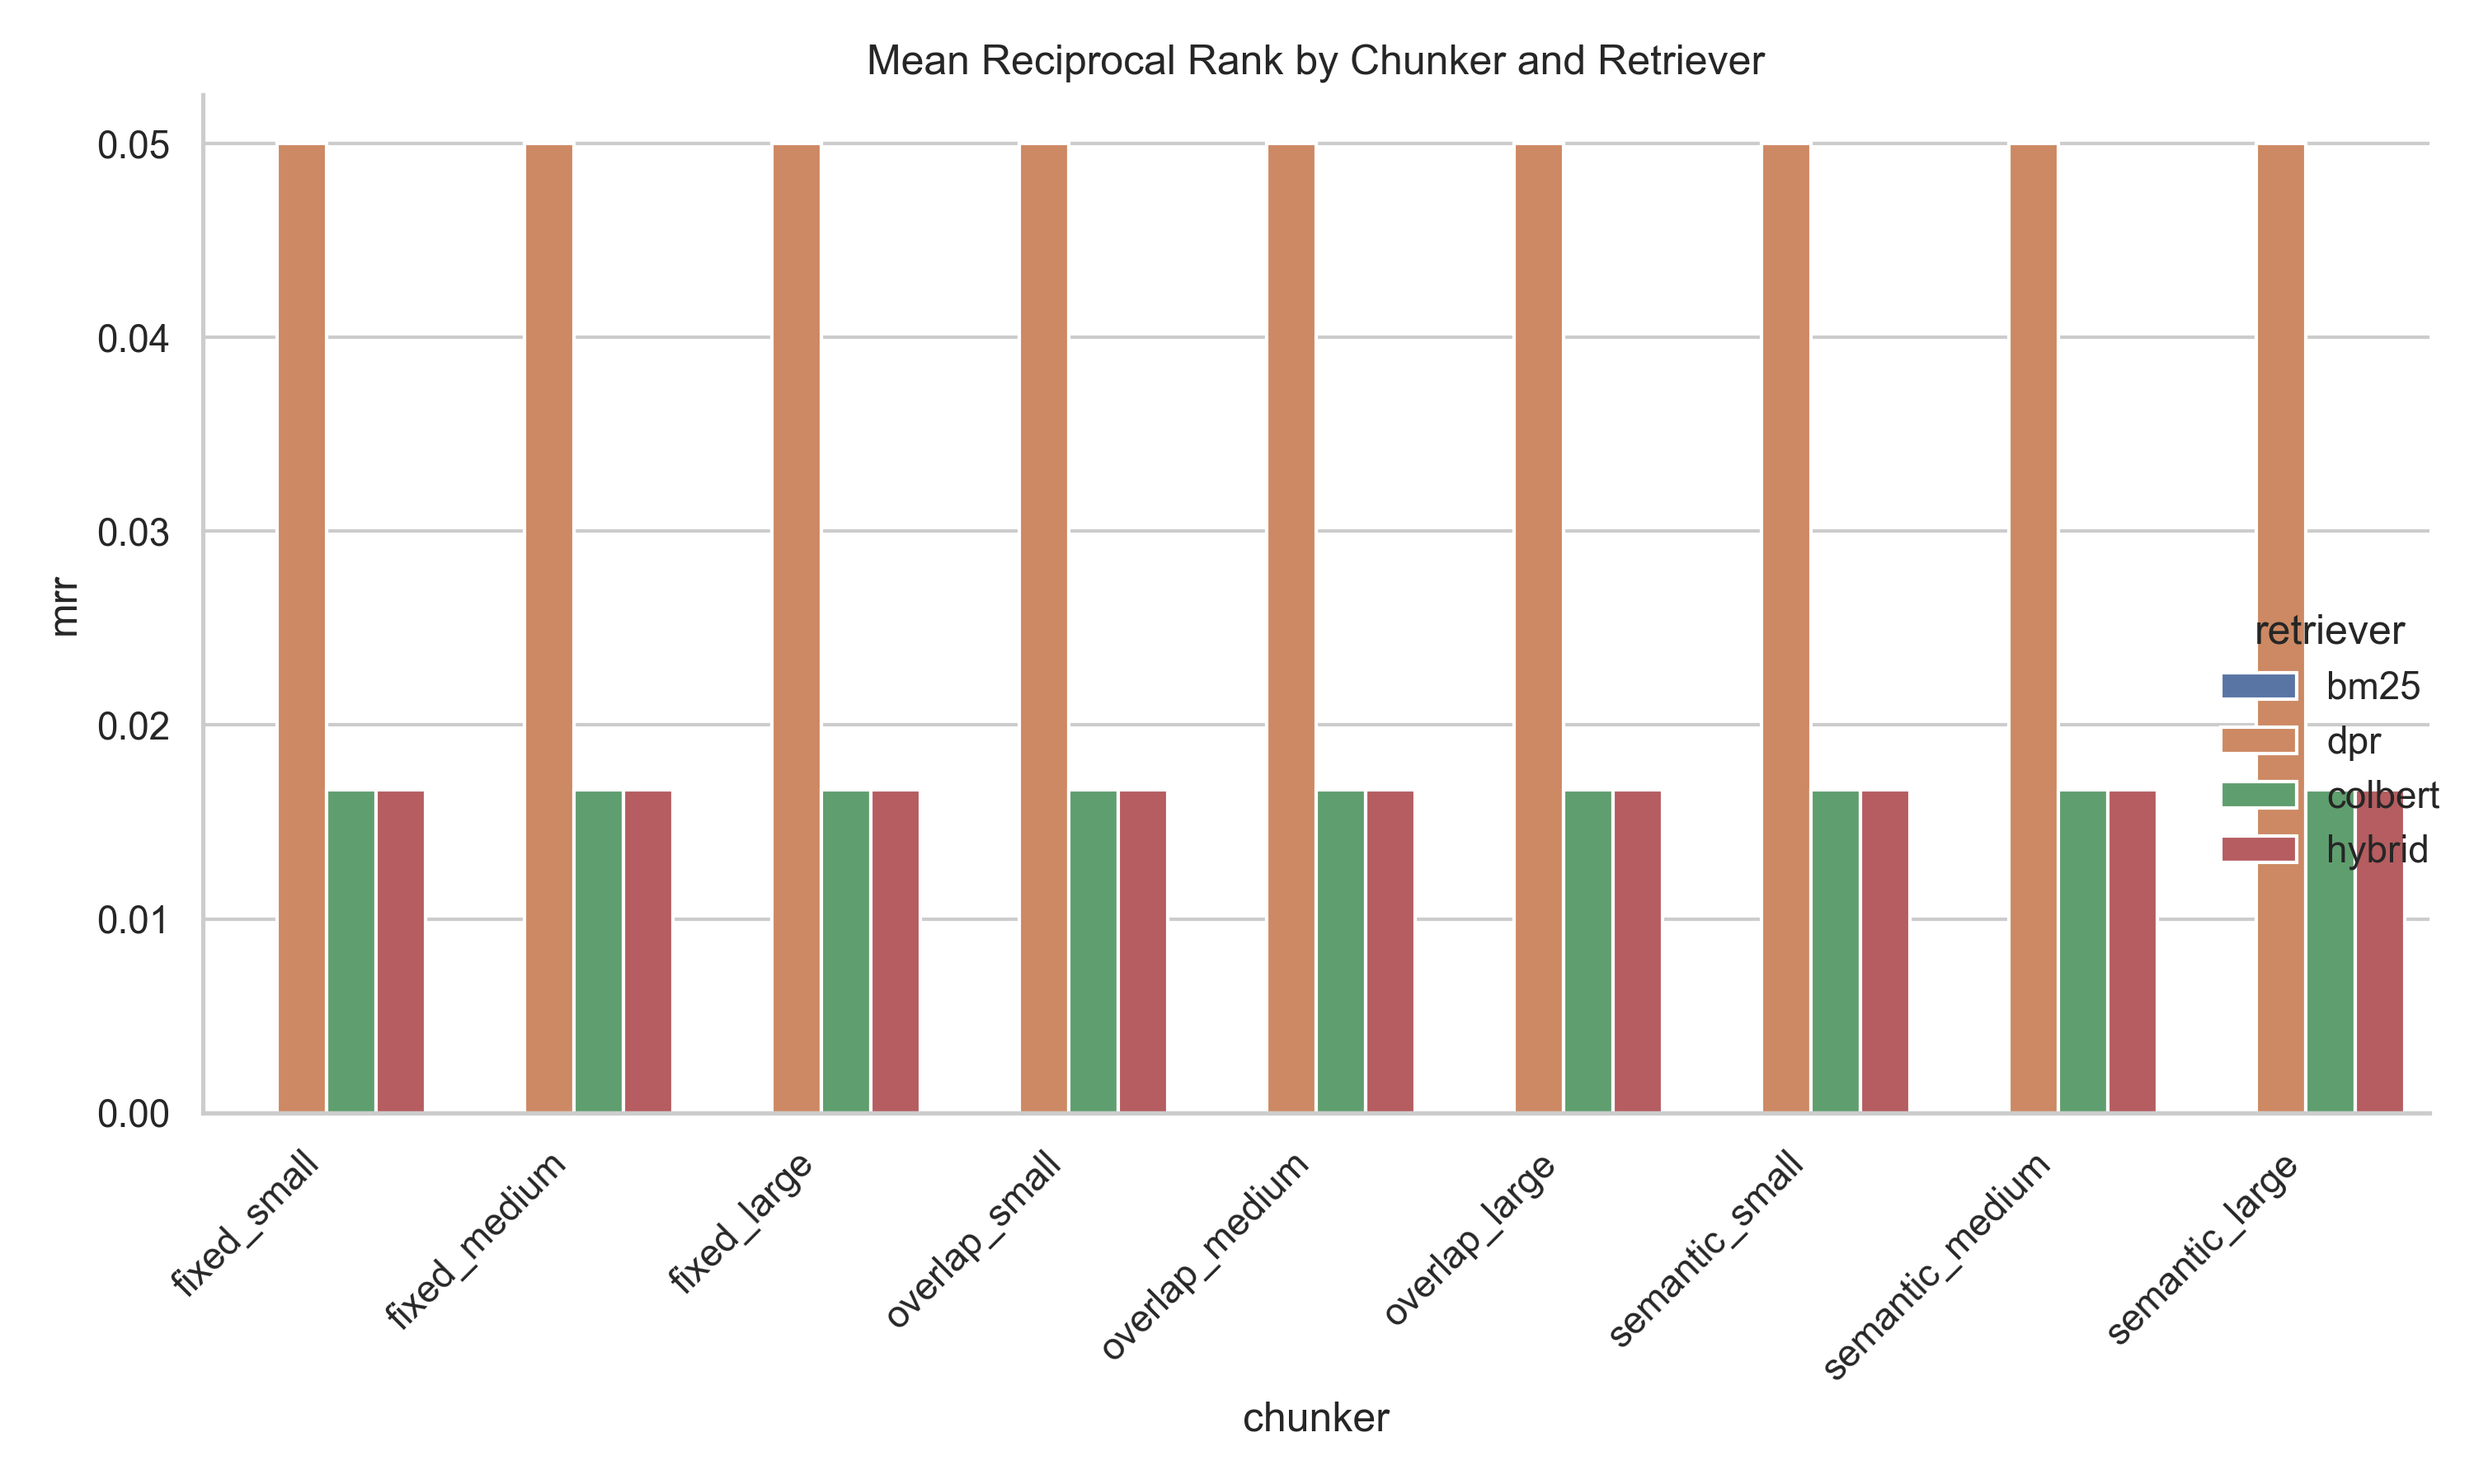
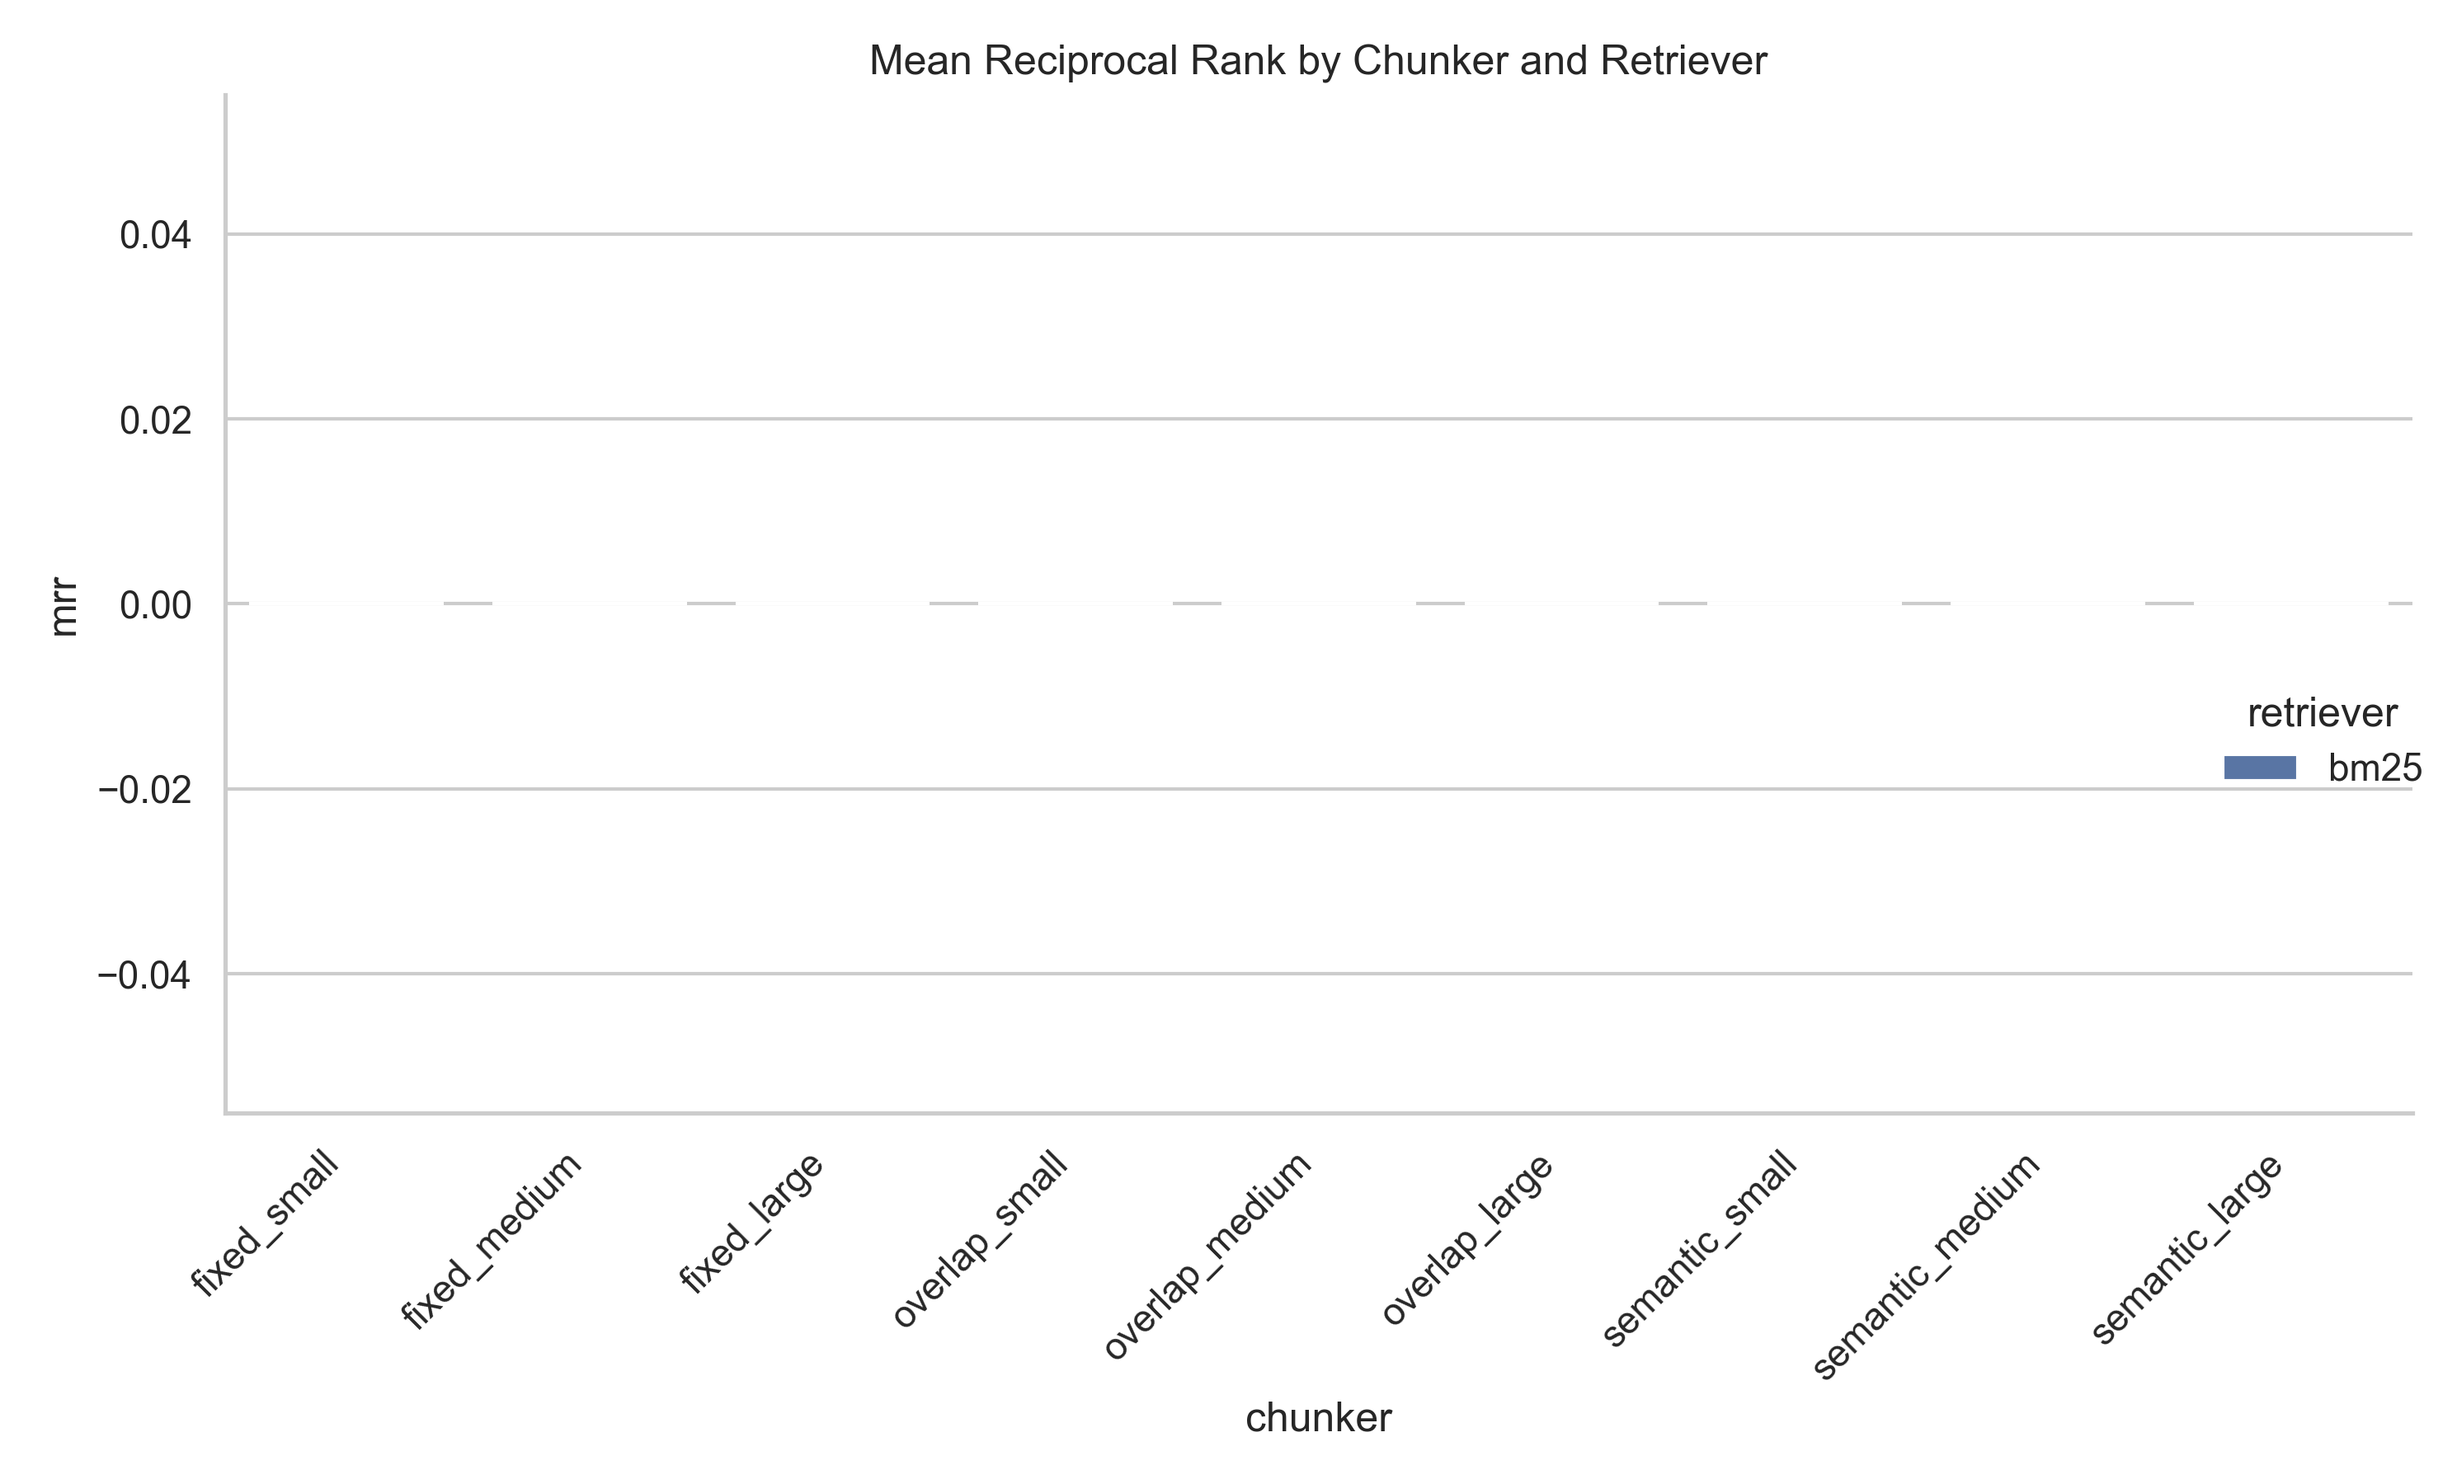
updates

diff --git a/test2.py b/test2.py
@@ -156,22 +156,39 @@ def load_triviaqa(
     """
     print(f"Loading TriviaQA from {dataset_path}")
     
+    # Verify dataset exists
+    if not os.path.exists(dataset_path):
+        raise FileNotFoundError(f"TriviaQA dataset not found at {dataset_path}. Please check the path.")
+    
     root = Path(dataset_path).parent
+    print(f"Looking for evidence files in: {root}")
+    
     with open(dataset_path, "r", encoding="utf-8") as f:
-        data = json.load(f)["Data"]
+        data_json = json.load(f)
+        if "Data" not in data_json:
+            raise ValueError(f"Invalid TriviaQA format: 'Data' key not found in {dataset_path}")
+        data = data_json["Data"]
+        print(f"Loaded {len(data)} QA pairs from dataset")
 
     docs = {}
     qa_pairs = []
+    missing_files = 0
+    empty_docs = 0
     
     def read_evidence(file_path: Path) -> str:
+        nonlocal missing_files
         if not file_path.exists():
+            missing_files += 1
+            if missing_files <= 5:  # Limit the number of warnings
+                print(f"Warning: Evidence file not found: {file_path}")
             return ""
         try:
             if file_path.suffix == ".gz":
                 with gzip.open(file_path, "rt", encoding="utf-8", errors="ignore") as g:
                     return g.read()
             return file_path.read_text(encoding="utf-8", errors="ignore")
-        except Exception:
+        except Exception as e:
+            print(f"Error reading file {file_path}: {str(e)}")
             return ""
 
     def add_doc(doc_info, prefix: str, j: int):
@@ -180,9 +197,26 @@ def load_triviaqa(
         doc_id = f"{prefix}_{j}"
         txt = ""
         if doc_info.get("Filename"):
-            txt = read_evidence(root / doc_info["Filename"])
+            # Try to find the file in the dataset directory
+            file_path = root / doc_info["Filename"]
+            txt = read_evidence(file_path)
+            
+            # If file wasn't found in the expected location, try with just the filename
+            if not txt and '/' in doc_info["Filename"]:
+                base_filename = os.path.basename(doc_info["Filename"])
+                alt_path = root / base_filename
+                txt = read_evidence(alt_path)
+                
         # Fallbacks
-        txt = txt or doc_info.get("Snippet", "") or doc_info.get("Title", "") or doc_info.get("Url", "")
+        if not txt:
+            txt = doc_info.get("Snippet", "") or doc_info.get("Title", "") or doc_info.get("Url", "")
+        
+        nonlocal empty_docs
+        if len(txt.strip().split()) < 10:  # Document has fewer than 10 words
+            empty_docs += 1
+            if empty_docs <= 5:  # Limit the number of warnings
+                print(f"Warning: Document {doc_id} is very short: '{txt}'")
+        
         docs[doc_id] = txt
 
     for i, item in enumerate(data):
@@ -191,8 +225,19 @@ def load_triviaqa(
 
         # QA
         question = item["Question"]
-        aliases = item["Answer"].get("NormalizedAliases") or []
-        gold = aliases[0] if aliases else item["Answer"]["NormalizedValue"]
+        answers = []
+        if "Answer" in item:
+            aliases = item["Answer"].get("NormalizedAliases", [])
+            if aliases:
+                answers = aliases
+            else:
+                answers = [item["Answer"].get("NormalizedValue", "")]
+        
+        if not answers:
+            print(f"Warning: No answer found for question: {question}")
+            continue
+            
+        gold = answers[0]
         
         # Add question complexity estimation (word count as proxy)
         complexity = len(question.split())
@@ -211,8 +256,38 @@ def load_triviaqa(
             add_doc(d, "web", j)
 
     # Drop empty documents
-    docs = {k: v for k, v in docs.items() if v.strip()}
+    orig_doc_count = len(docs)
+    docs = {k: v for k, v in docs.items() if len(v.strip()) > 20}  # Require at least 20 chars
+    print(f"Dropped {orig_doc_count - len(docs)} documents with less than 20 chars")
+    
+    if missing_files > 5:
+        print(f"Warning: {missing_files} evidence files were not found")
+    if empty_docs > 5:
+        print(f"Warning: {empty_docs} documents were very short (< 10 words)")
+    
+    # Sanity check on loaded documents
+    if not docs:
+        raise ValueError("No valid documents were loaded. Please check the dataset path and format.")
+    
+    avg_doc_len = sum(len(doc.split()) for doc in docs.values()) / len(docs)
     print(f"Loaded {len(docs)} non-empty documents and {len(qa_pairs)} QA pairs")
+    print(f"Average document length: {avg_doc_len:.1f} words")
+    
+    # Verify that answers can be found in at least some documents
+    answer_found = 0
+    doc_values = list(docs.values())
+    sample_size = min(len(qa_pairs), 100)  # Check up to 100 QA pairs
+    for i in range(sample_size):
+        answer = qa_pairs[i]["answer"].lower()
+        if any(answer in doc.lower() for doc in doc_values):
+            answer_found += 1
+    
+    answer_found_pct = (answer_found / sample_size) * 100 if sample_size > 0 else 0
+    print(f"Answers found in documents: {answer_found}/{sample_size} ({answer_found_pct:.1f}%)")
+    
+    if answer_found_pct < 5:
+        print("WARNING: Less than 5% of answers found in documents. Results may be poor.")
+        
     return docs, qa_pairs
 
 def benchmark_retrieval(retriever, query: str, gold_answer: str, model, top_k: int) -> Dict[str, Any]:
@@ -278,9 +353,9 @@ def run_all_strategies(docs: Dict[str, str], qa_pairs: List[Dict], top_k: int = 
     
     retrievers = {
         "bm25": BM25Retriever,
-        "dpr": DPRRetriever,
-        "colbert": ColBERTRetriever,
-        "hybrid": HybridRetriever
+        # "dpr": DPRRetriever,
+        # "colbert": ColBERTRetriever,
+        # "hybrid": HybridRetriever
     }
     
     # Initialize embedding model for semantic similarity calculations
@@ -609,35 +684,44 @@ def generate_comparison_plots(results_df: pd.DataFrame, chunking_df: pd.DataFram
     metrics_to_plot = ['em_score', 'mrr', 'f1_score', 'hit_rate_1', 'hit_rate_3', 'semantic_similarity']
     profile_data = results_df.copy()
     
-    for metric in metrics_to_plot:
-        max_val = profile_data[metric].max()
-        if max_val > 0:
-            profile_data[f"{metric}_norm"] = profile_data[metric] / max_val
+    # Check if we have any non-zero metrics
+    has_valid_data = any(profile_data[metric].max() > 0 for metric in metrics_to_plot)
     
-    # Melt the dataframe for plotting
-    profile_melted = profile_data.melt(
-        id_vars=["chunker", "retriever"], 
-        value_vars=[f"{m}_norm" for m in metrics_to_plot],
-        var_name="metric", value_name="normalized_value"
-    )
-    
-    # Clean up metric names for display
-    profile_melted["metric"] = profile_melted["metric"].str.replace("_norm", "")
-    
-    plt.figure(figsize=(14, 8))
-    g = sns.catplot(
-        data=profile_melted,
-        kind="bar",
-        x="metric", y="normalized_value",
-        hue="retriever", col="chunker",
-        height=6, aspect=0.8,
-        col_wrap=3,
-        sharey=True
-    )
-    g.set_titles("{col_name}")
-    plt.suptitle("Performance Profile Across Metrics (Normalized)", y=1.02)
-    plt.tight_layout()
-    plt.savefig(f"{output_dir}/performance_profile.png", dpi=300)
+    if has_valid_data:
+        for metric in metrics_to_plot:
+            max_val = profile_data[metric].max()
+            if max_val > 0:
+                profile_data[f"{metric}_norm"] = profile_data[metric] / max_val
+            else:
+                # Create column with zeros to avoid KeyError
+                profile_data[f"{metric}_norm"] = 0
+        
+        # Melt the dataframe for plotting
+        profile_melted = profile_data.melt(
+            id_vars=["chunker", "retriever"], 
+            value_vars=[f"{m}_norm" for m in metrics_to_plot],
+            var_name="metric", value_name="normalized_value"
+        )
+        
+        # Clean up metric names for display
+        profile_melted["metric"] = profile_melted["metric"].str.replace("_norm", "")
+        
+        plt.figure(figsize=(14, 8))
+        g = sns.catplot(
+            data=profile_melted,
+            kind="bar",
+            x="metric", y="normalized_value",
+            hue="retriever", col="chunker",
+            height=6, aspect=0.8,
+            col_wrap=3,
+            sharey=True
+        )
+        g.set_titles("{col_name}")
+        plt.suptitle("Performance Profile Across Metrics (Normalized)", y=1.02)
+        plt.tight_layout()
+        plt.savefig(f"{output_dir}/performance_profile.png", dpi=300)
+    else:
+        print("Skipping performance profile plot - all metrics are zero")
     
     # Save results to CSV
     results_df.to_csv(f"{output_dir}/benchmark_results.csv", index=False)
@@ -662,9 +746,9 @@ def triviaqa_benchmark(dataset_path, max_docs=300, max_qa=100, top_k=5):
 
 def main():
     # Parameters
-    TRIVIAQA_PATH = "../triviaqa-unfiltered/unfiltered-web-dev.json"
-    MAX_DOCS = 100  # Reduced for faster evaluation
-    MAX_QA = 50     # Reduced for faster evaluation
+    TRIVIAQA_PATH = "../triviaqa-rc/qa/verified-web-dev.json"
+    MAX_DOCS = 100000  # Reduced for faster evaluation
+    MAX_QA = 50000   # Reduced for faster evaluation
     TOP_K = 5
     
     # Run the benchmark
